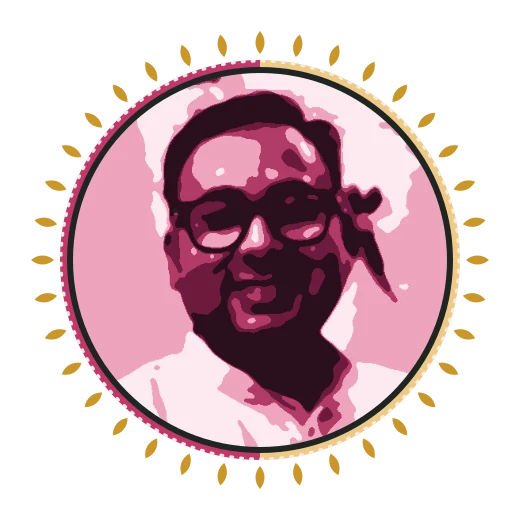
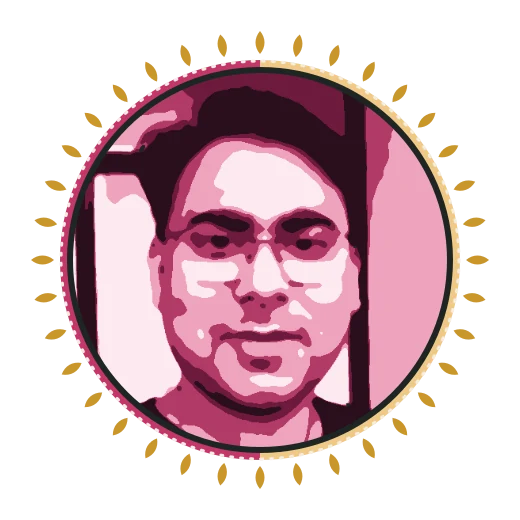
update 4

diff --git a/sw.js b/sw.js
@@ -1,4 +1,4 @@
-const CACHE='asanoha-v13';
+const CACHE='asanoha-v14';
 const ASSETS=["./", "index.html", "about.html", "story.html", "blog.html", "privacy.html", "terms.html", "404.html", "manifest.webmanifest", "assets/css/site.css?v=9", "assets/js/site.js?v=9", "assets/img/apple-touch-icon.png", "assets/img/ayush-badge.svg", "assets/img/foil.webp", "assets/img/founder-adarsh.webp", "assets/img/founder-joseph.webp", "assets/img/founder-pankaj.webp", "assets/img/founder-soumyadev.webp", "assets/img/giftbox.webp", "assets/img/icon-192.png", "assets/img/icon-512.png", "assets/img/logo-night.webp", "assets/img/logo.png", "assets/img/logo.webp", "assets/img/mark.svg", "assets/img/og.jpg", "assets/img/oil-high.webp", "assets/img/oil-low.webp", "assets/img/oil-medium.webp", "assets/img/rolling-papers.webp", "assets/img/tablets.webp", "assets/img/tinback.webp", "assets/img/tins-high.webp", "assets/img/tins-low.webp", "assets/img/tins-medium.webp"];
 self.addEventListener('install',e=>{e.waitUntil(caches.open(CACHE).then(c=>c.addAll(ASSETS)).then(()=>self.skipWaiting()));});
 self.addEventListener('activate',e=>{e.waitUntil(caches.keys().then(ks=>Promise.all(ks.filter(k=>k!==CACHE).map(k=>caches.delete(k)))).then(()=>self.clients.claim()));});
